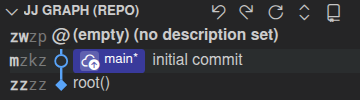
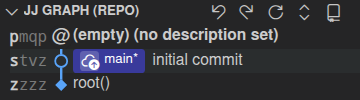
feat: Add track/untrack options to bookmark context menu

Changed region(s): [[0.0, 0.54, 0.1222, 0.69], [0.0306, 0.3, 0.1222, 0.48], [0.0306, 0.78, 0.0917, 0.93]]

diff --git a/tests-integration/tests/pushBookmark.test.ts b/tests-integration/tests/pushBookmark.test.ts
@@ -10,15 +10,27 @@ test("push bookmark to all remotes via upload icon, then push to single remote",
   await testRepo.jjCommand(["git", "remote", "add", "remote-a", "remote-a"]);
   await testRepo.jjCommand(["git", "remote", "add", "remote-b", "remote-b"]);
   await testRepo.jjCommand(["bookmark", "create", "my-bookmark"]);
-  await testRepo.jjCommand(["bookmark", "track", "my-bookmark", "--remote=remote-a"]);
-  await testRepo.jjCommand(["bookmark", "track", "my-bookmark", "--remote=remote-b"]);
+  //await testRepo.jjCommand(["bookmark", "track", "my-bookmark", "--remote=remote-a"]);
+  //await testRepo.jjCommand(["bookmark", "track", "my-bookmark", "--remote=remote-b"]);
+
+  const bookmarkPill = graphFrame.locator('.bookmark-pill[data-bookmark="my-bookmark"]');
+  await expect(bookmarkPill).toBeVisible();
+
+  const clickMenuItem = async (text: string) => {
+    await bookmarkPill.click({ button: "right" });
+    const pushMenu = graphFrame.locator("#pill-context-menu");
+    const item = pushMenu.locator(".context-menu-item").filter({ hasText: text });
+    await expect(item).toBeVisible();
+    await item.click();
+    await expect(pushMenu).not.toBeVisible();
+  };
+  await clickMenuItem("Track on remote-a");
+  await clickMenuItem("Track on remote-b");
+
   await testRepo.commitFile("test.txt", "content", "initial commit");
 
   const nodes = graphFrame.locator("#nodes > div");
   await expect(nodes).toHaveCount(3);
-
-  const bookmarkPill = graphFrame.locator('.bookmark-pill[data-bookmark="my-bookmark"]');
-  await expect(bookmarkPill).toBeVisible();
 
   const unsyncedPill = graphFrame.locator('.bookmark-pill.unsynced[data-bookmark="my-bookmark"]');
   const uploadIcon = bookmarkPill.locator(".bookmark-push-icon");
@@ -35,14 +47,7 @@ test("push bookmark to all remotes via upload icon, then push to single remote",
   await expect(unsyncedPill).toBeVisible();
   await expect(uploadIcon).toBeVisible();
 
-  await bookmarkPill.click({ button: "right" });
-
-  const pushMenu = graphFrame.locator("#pill-context-menu");
-  await expect(pushMenu).toBeVisible();
-
-  const pushToRemoteA = pushMenu.locator(".context-menu-item").filter({ hasText: "Push to remote-a" });
-  await expect(pushToRemoteA).toBeVisible();
-  await pushToRemoteA.click();
+  await clickMenuItem("Push to remote-a");
 
   await expect(async () => {
     const showResult = await remoteARepo.jjCommand(["show", changeId]);
@@ -53,4 +58,22 @@ test("push bookmark to all remotes via upload icon, then push to single remote",
   expect(showResultB.exitCode).not.toBe(0);
 
   await expect(unsyncedPill).toBeVisible();
+
+  await clickMenuItem("Push to remote-b");
+  await expect(unsyncedPill).not.toBeVisible();
+
+  await testRepo.commit("third commit");
+  await testRepo.jjCommand(["bookmark", "move", "my-bookmark", "--to", "@-"]);
+  await expect(unsyncedPill).toBeVisible();
+
+  await clickMenuItem("Push to remote-a");
+  await clickMenuItem("Untrack from remote-b");
+  await expect(unsyncedPill).not.toBeVisible();
+
+  await clickMenuItem("Untrack from remote-a");
+
+  await expect(async () => {
+    const trackedResult = await testRepo.jjCommand(["bookmark", "list", "my-bookmark", "--tracked"]);
+    expect(trackedResult.stdout.trim()).toBe("");
+  }).toPass();
 });

diff --git a/src/webview/graph/components/pill-context-menu.tsx b/src/webview/graph/components/pill-context-menu.tsx
@@ -16,6 +16,14 @@ export function PillContextMenu() {
   const deleteCommand = isBookmark ? "deleteBookmark" : "deleteTag";
   const deletePayload = isBookmark ? { bookmark: state.name } : { tag: state.name };
 
+  const showPush = isBookmark && !state.synced && state.remotes && state.remotes.length > 0;
+  const showTrack = isBookmark && state.untrackedRemotes && state.untrackedRemotes.length > 0;
+  const showUntrack = isBookmark && state.remotes && state.remotes.length > 0;
+
+  const needTopDivider = (showPush && (showTrack || showUntrack)) || (!showPush && showTrack && showUntrack);
+  const needMiddleDivider = showTrack && showUntrack;
+  const needBottomDivider = showPush || showTrack || showUntrack;
+
   return (
     <div
       id="pill-context-menu"
@@ -24,11 +32,10 @@ export function PillContextMenu() {
       style="display: none"
       onClick={(e) => e.stopPropagation()}
     >
-      {isBookmark &&
-        state.remotes &&
-        state.remotes.map((remote) => (
+      {showPush &&
+        state.remotes!.map((remote) => (
           <div
-            key={remote}
+            key={`push-${remote}`}
             class="context-menu-item"
             data-action="pushBookmark"
             onClick={() => {
@@ -39,7 +46,37 @@ export function PillContextMenu() {
             Push to {remote}
           </div>
         ))}
-      {isBookmark && state.remotes && state.remotes.length > 0 && <div class="context-menu-separator"></div>}
+      {showPush && needTopDivider && <div class="context-menu-separator"></div>}
+      {showTrack &&
+        state.untrackedRemotes!.map((remote) => (
+          <div
+            key={`track-${remote}`}
+            class="context-menu-item"
+            data-action="trackBookmark"
+            onClick={() => {
+              vscode.postMessage({ command: "trackBookmark", bookmark: state.name, remote });
+              pillContextMenu.value = null;
+            }}
+          >
+            Track on {remote}
+          </div>
+        ))}
+      {showTrack && needMiddleDivider && <div class="context-menu-separator"></div>}
+      {showUntrack &&
+        state.remotes!.map((remote) => (
+          <div
+            key={`untrack-${remote}`}
+            class="context-menu-item"
+            data-action="untrackBookmark"
+            onClick={() => {
+              vscode.postMessage({ command: "untrackBookmark", bookmark: state.name, remote });
+              pillContextMenu.value = null;
+            }}
+          >
+            Untrack from {remote}
+          </div>
+        ))}
+      {needBottomDivider && <div class="context-menu-separator"></div>}
       <div
         class="context-menu-item"
         data-action="deleteRef"

diff --git a/src/repository.ts b/src/repository.ts
@@ -740,6 +740,54 @@ export class JJRepository {
       .filter((r) => r && r !== "git");
   }
 
+  async getBookmarkTrackingInfo(bookmark: string): Promise<{ trackedRemotes: string[]; untrackedRemotes: string[] }> {
+    const [trackedOutput, remotesOutput] = await Promise.all([
+      handleJJCommand(
+        this.spawnJJRead(
+          [
+            "bookmark",
+            "list",
+            "--all-remotes",
+            bookmark,
+            "-T",
+            `if(remote != "" && tracked && remote != "git", remote ++ "\\n", "")`,
+          ],
+          { cwd: this.repositoryRoot },
+        ),
+      ),
+      handleJJCommand(this.spawnJJRead(["git", "remote", "list"], { cwd: this.repositoryRoot })),
+    ]);
+    const parseLines = (output: string) =>
+      output
+        .toString()
+        .trim()
+        .split("\n")
+        .map((r) => r.trim())
+        .filter((r) => r);
+    const trackedRemotes = parseLines(trackedOutput.toString());
+    const allRemotes = parseLines(remotesOutput.toString()).map((line) => line.split(/\s+/)[0]);
+    const untrackedRemotes = allRemotes.filter((r) => !trackedRemotes.includes(r));
+    return { trackedRemotes, untrackedRemotes };
+  }
+
+  async trackBookmark(bookmark: string, remote: string): Promise<void> {
+    await handleJJCommand(
+      this.spawnJJ(["bookmark", "track", bookmark, `--remote=${remote}`], {
+        timeout: TIMEOUTS.DEFAULT,
+        cwd: this.repositoryRoot,
+      }),
+    );
+  }
+
+  async untrackBookmark(bookmark: string, remote: string): Promise<void> {
+    await handleJJCommand(
+      this.spawnJJ(["bookmark", "untrack", bookmark, `--remote=${remote}`], {
+        timeout: TIMEOUTS.DEFAULT,
+        cwd: this.repositoryRoot,
+      }),
+    );
+  }
+
   async pushBookmarkToRemote(bookmark: string, remote: string): Promise<void> {
     await handleJJCommand(
       this.spawnJJ(["git", "push", "--bookmark", bookmark, "--remote", remote], {

diff --git a/src/graphWebview.ts b/src/graphWebview.ts
@@ -191,14 +191,21 @@ export class JJGraphWebview implements vscode.WebviewViewProvider {
           break;
         case "getBookmarkTrackingRemotes":
           try {
-            const remotes = await repo.getBookmarkTrackingRemotes(message.bookmark);
+            const info = await repo.getBookmarkTrackingInfo(message.bookmark);
             this.panel?.webview.postMessage({
               command: "bookmarkTrackingRemotesResponse",
               bookmark: message.bookmark,
-              remotes,
+              remotes: info.trackedRemotes,
+              untrackedRemotes: info.untrackedRemotes,
             });
           } catch (error: unknown) {
             showErrorMessage("Failed to get bookmark tracking remotes", error);
+            this.panel?.webview.postMessage({
+              command: "bookmarkTrackingRemotesResponse",
+              bookmark: message.bookmark,
+              remotes: [],
+              untrackedRemotes: [],
+            });
           }
           break;
         case "pushBookmarkToRemote":
@@ -207,6 +214,22 @@ export class JJGraphWebview implements vscode.WebviewViewProvider {
             await this.refresh();
           } catch (error: unknown) {
             showErrorMessage("Failed to push bookmark", error);
+          }
+          break;
+        case "trackBookmark":
+          try {
+            await repo.trackBookmark(message.bookmark, message.remote);
+            await this.refresh();
+          } catch (error: unknown) {
+            showErrorMessage("Failed to track bookmark", error);
+          }
+          break;
+        case "untrackBookmark":
+          try {
+            await repo.untrackBookmark(message.bookmark, message.remote);
+            await this.refresh();
+          } catch (error: unknown) {
+            showErrorMessage("Failed to untrack bookmark", error);
           }
           break;
         case "deleteBookmark":

diff --git a/src/graph-protocol.ts b/src/graph-protocol.ts
@@ -76,6 +76,8 @@ export type WebviewToExtensionMessage =
   | { command: "pushBookmark"; bookmark: string }
   | { command: "pushBookmarkToRemote"; bookmark: string; remote: string }
   | { command: "getBookmarkTrackingRemotes"; bookmark: string }
+  | { command: "trackBookmark"; bookmark: string; remote: string }
+  | { command: "untrackBookmark"; bookmark: string; remote: string }
   | { command: "deleteBookmark"; bookmark: string }
   | { command: "deleteTag"; tag: string }
   | { command: "describeChange"; changeId: string }
@@ -111,4 +113,4 @@ export type ExtensionToWebviewMessage =
   | { command: "showStaleState" }
   | { command: "showJJNotFoundState" }
   | { command: "diffStatsResponse"; changeId: string; stats: DiffStats }
-  | { command: "bookmarkTrackingRemotesResponse"; bookmark: string; remotes: string[] };
+  | { command: "bookmarkTrackingRemotesResponse"; bookmark: string; remotes: string[]; untrackedRemotes?: string[] };

diff --git a/src/webview/graph/components/change-node.tsx b/src/webview/graph/components/change-node.tsx
@@ -233,17 +233,15 @@ const MemoizedChangeNodeTextContent = memo(function ChangeNodeTextContent({
               e.preventDefault();
               e.stopPropagation();
               closeAllMenus();
-              const hasPushIcon = !b.synced && !b.conflict && b.showPushButton !== false;
               pillContextMenu.value = {
                 type: "bookmark",
                 name: b.name,
                 pageX: e.pageX,
                 pageY: e.pageY,
-                pendingRemotes: hasPushIcon || undefined,
+                synced: b.synced,
+                pendingRemotes: true,
               };
-              if (hasPushIcon) {
-                vscode.postMessage({ command: "getBookmarkTrackingRemotes", bookmark: b.name });
-              }
+              vscode.postMessage({ command: "getBookmarkTrackingRemotes", bookmark: b.name });
             }}
             onDragStart={(e) => {
               e.stopPropagation();

diff --git a/src/webview/graph/app.tsx b/src/webview/graph/app.tsx
@@ -100,6 +100,8 @@ export function App() {
             pillContextMenu.value = {
               ...state,
               remotes: message.remotes.length > 0 ? message.remotes : undefined,
+              untrackedRemotes:
+                message.untrackedRemotes && message.untrackedRemotes.length > 0 ? message.untrackedRemotes : undefined,
               pendingRemotes: undefined,
             };
           }

diff --git a/tests-integration/screenshot/screenshot.test.ts b/tests-integration/screenshot/screenshot.test.ts
@@ -370,7 +370,7 @@ test("take screenshot of bookmark upload", async ({ userDataDir, graphFrame, tes
     x: scaleToZoomLevel(headerBox.x),
     y: scaleToZoomLevel(headerBox.y) + 1,
     width: scaleToZoomLevel(sideBarBox.x + sideBarBox.width - headerBox.x),
-    height: 160,
+    height: 220,
   };
 
   await screenshot(workbox, "bookmark-context-menu.png", clip2);

diff --git a/src/webview/graph/signals.ts b/src/webview/graph/signals.ts
@@ -73,7 +73,9 @@ export interface PillContextMenuState {
   name: string;
   pageX: number;
   pageY: number;
+  synced?: boolean;
   remotes?: string[];
+  untrackedRemotes?: string[];
   pendingRemotes?: boolean;
 }
 

diff --git a/README.md b/README.md
@@ -85,7 +85,9 @@ Jujutsu X is based on [Jujutsu Kaizen](https://github.com/keanemind/jjk).
 - Move bookmarks via drag&drop
 - Upload a bookmark to all its tracking remotes with a single click  
   ![unsynced bookmark](images/unsynced-bookmark.png)
-- Right-click to upload a bookmark to specific remotes or to delete a bookmark/tag  
+- Right-click context menu to push a bookmark to a specific remote
+- Track/untrack remotes
+- Delete a bookmark/tag  
   ![bookmark context menu](images/bookmark-context-menu.png)
 - Set and delete tags
 - Show conflicted bookmarks and tags with `??` suffix
